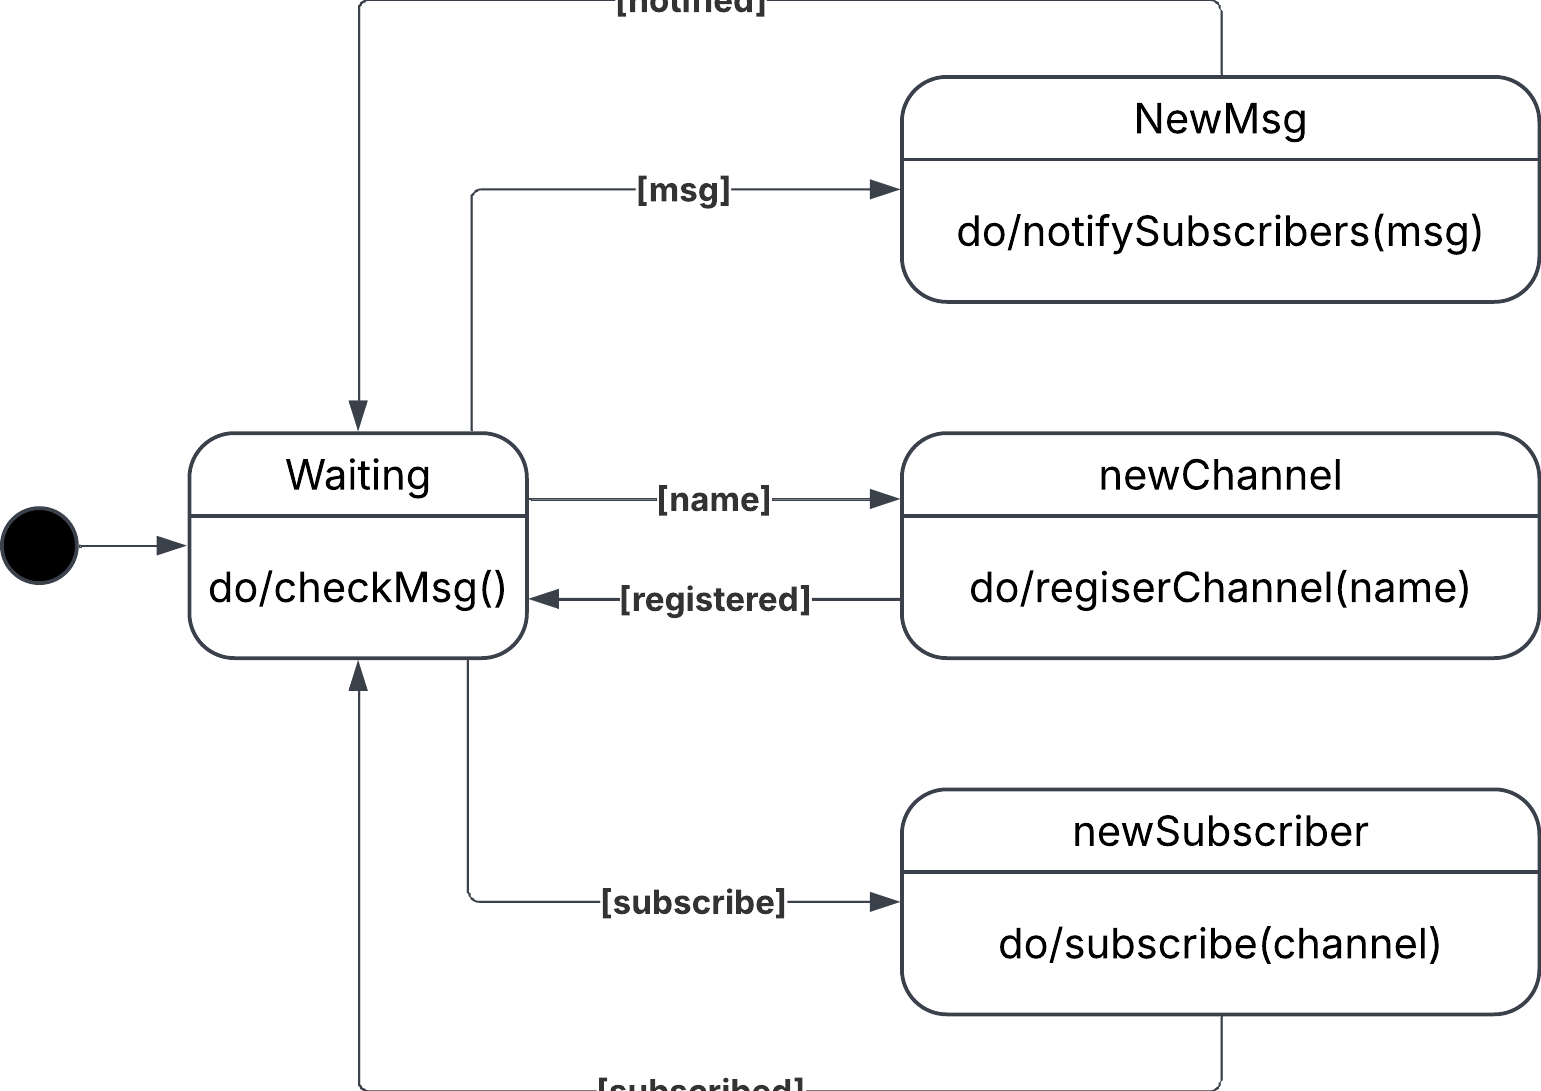
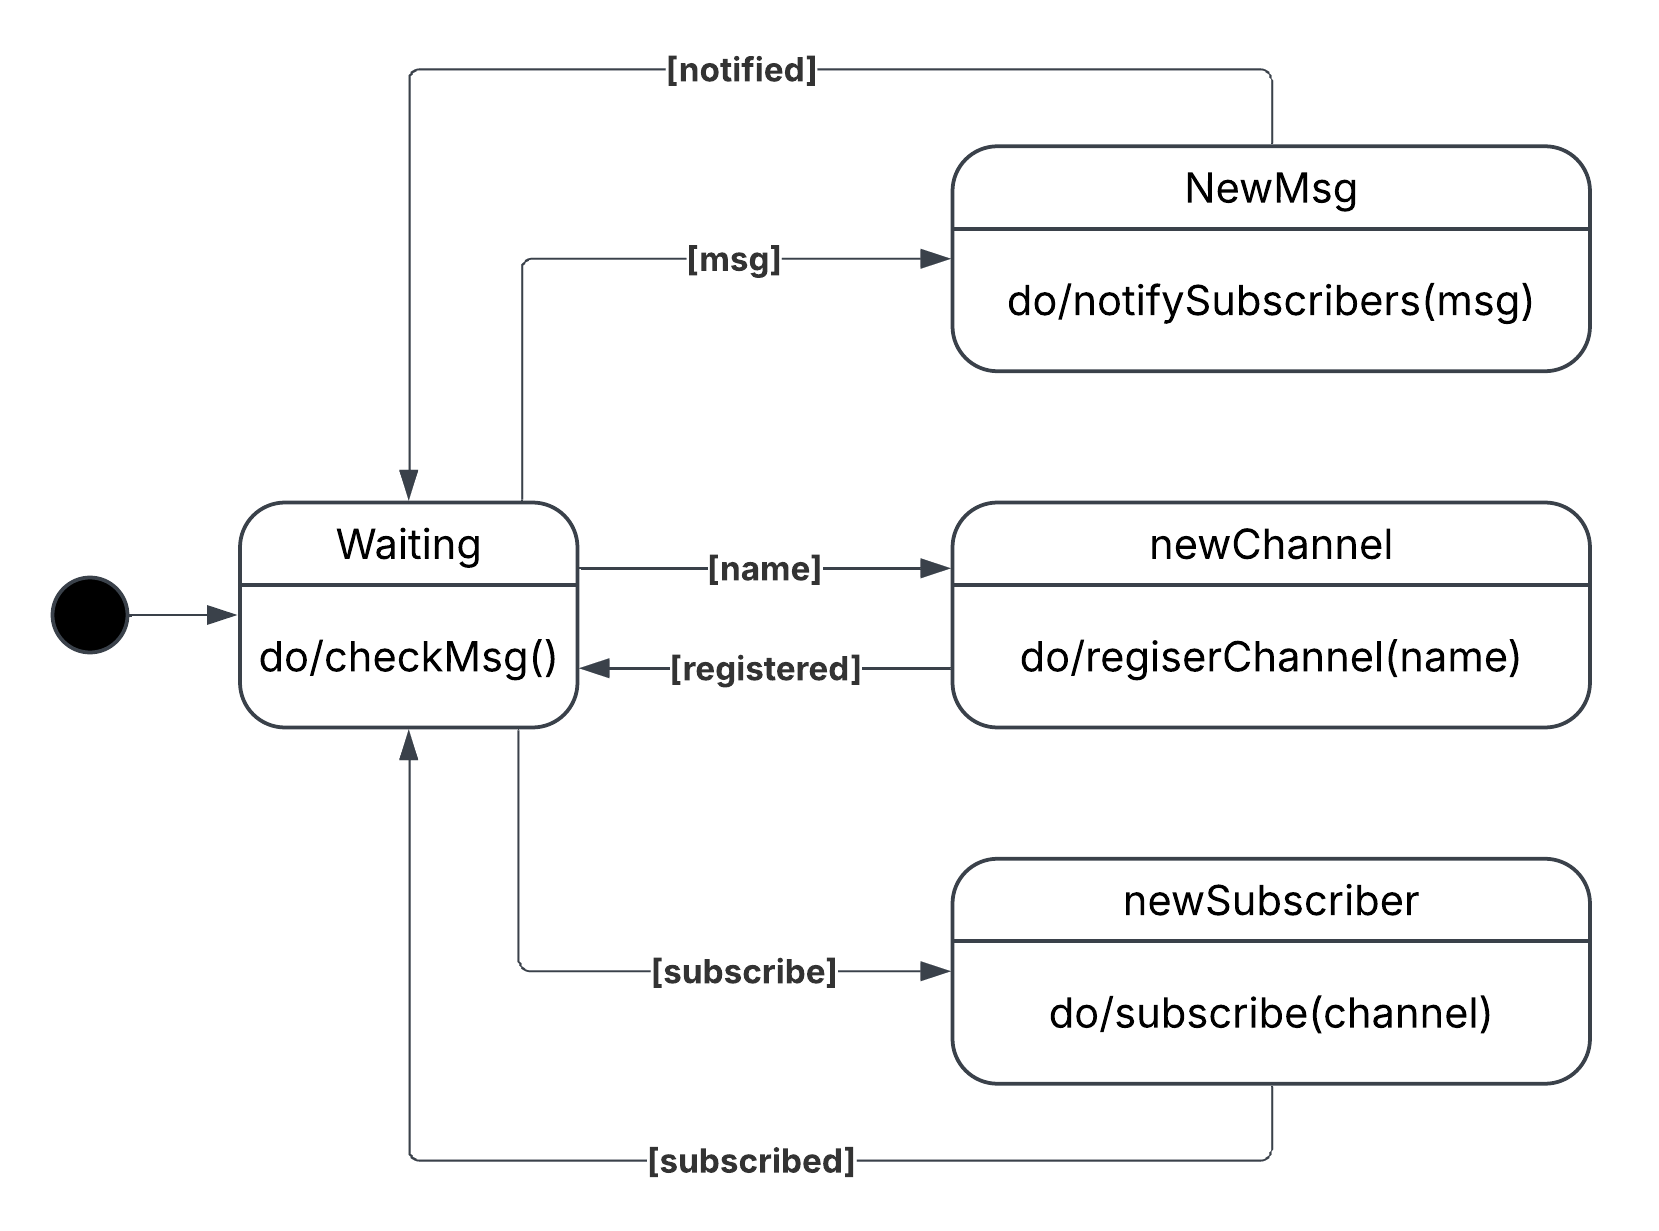
style: format and improve pictures

diff --git a/FinalReport/distributed-systems-final-report.tex b/FinalReport/distributed-systems-final-report.tex
@@ -32,11 +32,21 @@
 \maketitle
 
 \begin{abstract}
-This report presents the design and development of a distributed game application for playing Liar's Poker. It outlines all phases of the project, from the initial concept through to the final implementation, highlighting the evolution of the system as it was shaped to meet the specific demands of a distributed environment. The game logic adheres to the rules described in \cite{gamerules}, with adaptations made to support distributed execution.
+This report presents the design and development of a distributed game application for playing Liar's 
+Poker. It outlines all phases of the project, from the initial concept through to the final 
+implementation, highlighting the evolution of the system as it was shaped to meet the specific 
+demands of a distributed environment. The game logic adheres to the rules described in 
+\cite{gamerules}, with adaptations made to support distributed execution.
 
-The system architecture follows a client-server model and relies on the MQTT protocol to facilitate communication between components. The report provides an in-depth discussion of the design decisions taken throughout the project, along with detailed insights into the implementation process. Testing strategies are also described, focusing on both functionality and system robustness.
+The system architecture follows a client-server model and relies on the MQTT protocol to facilitate 
+communication between components. The report provides an in-depth discussion of the design decisions 
+taken throughout the project, along with detailed insights into the implementation process. Testing 
+strategies are also described, focusing on both functionality and system robustness.
 
-Particular attention is given to fault tolerance, demonstrating how the application manages client disconnections and server failures. The application is developed in Python, leveraging the Paho MQTT library to implement reliable and efficient messaging and the NiceGUI library to create a user-friendly web interface.
+Particular attention is given to fault tolerance, demonstrating how the application manages client 
+disconnections and server failures. The application is developed in Python, leveraging the Paho MQTT 
+library to implement reliable and efficient messaging and the NiceGUI library to create a 
+user-friendly web interface.
 \end{abstract}
 
 \clearpage
